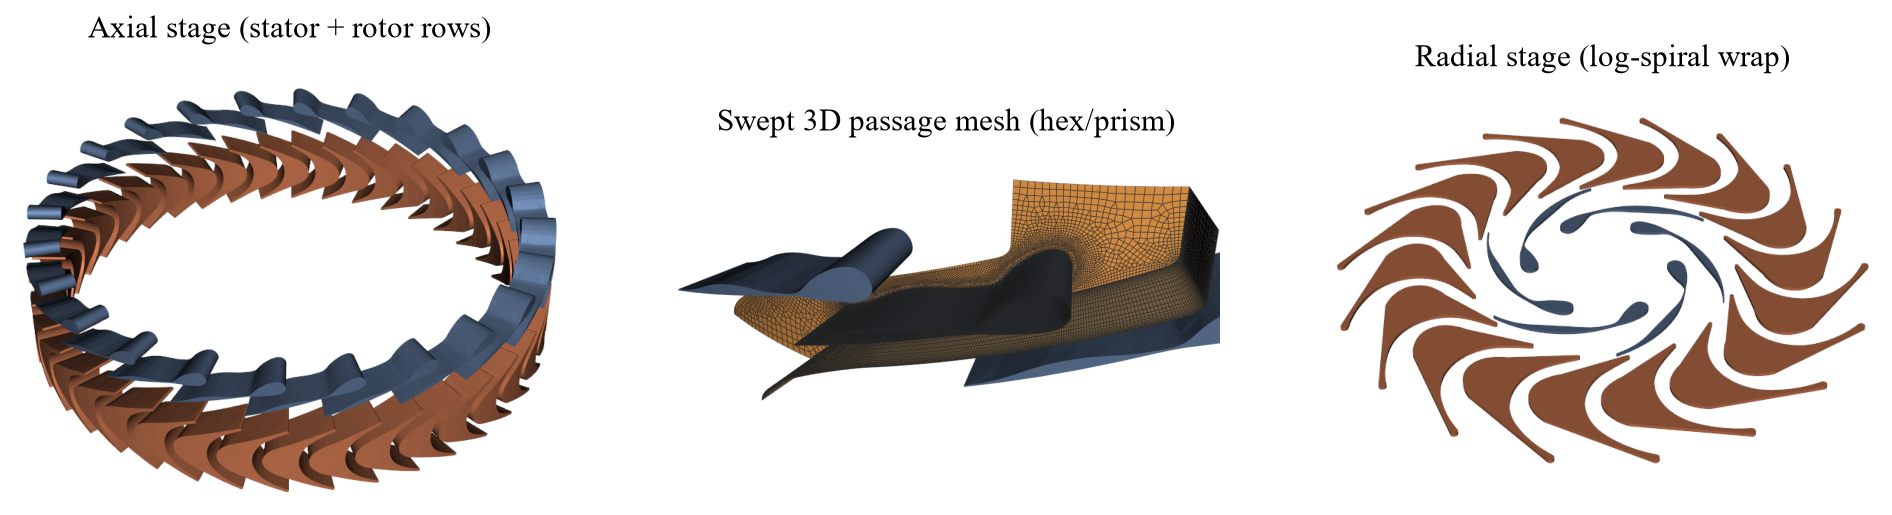
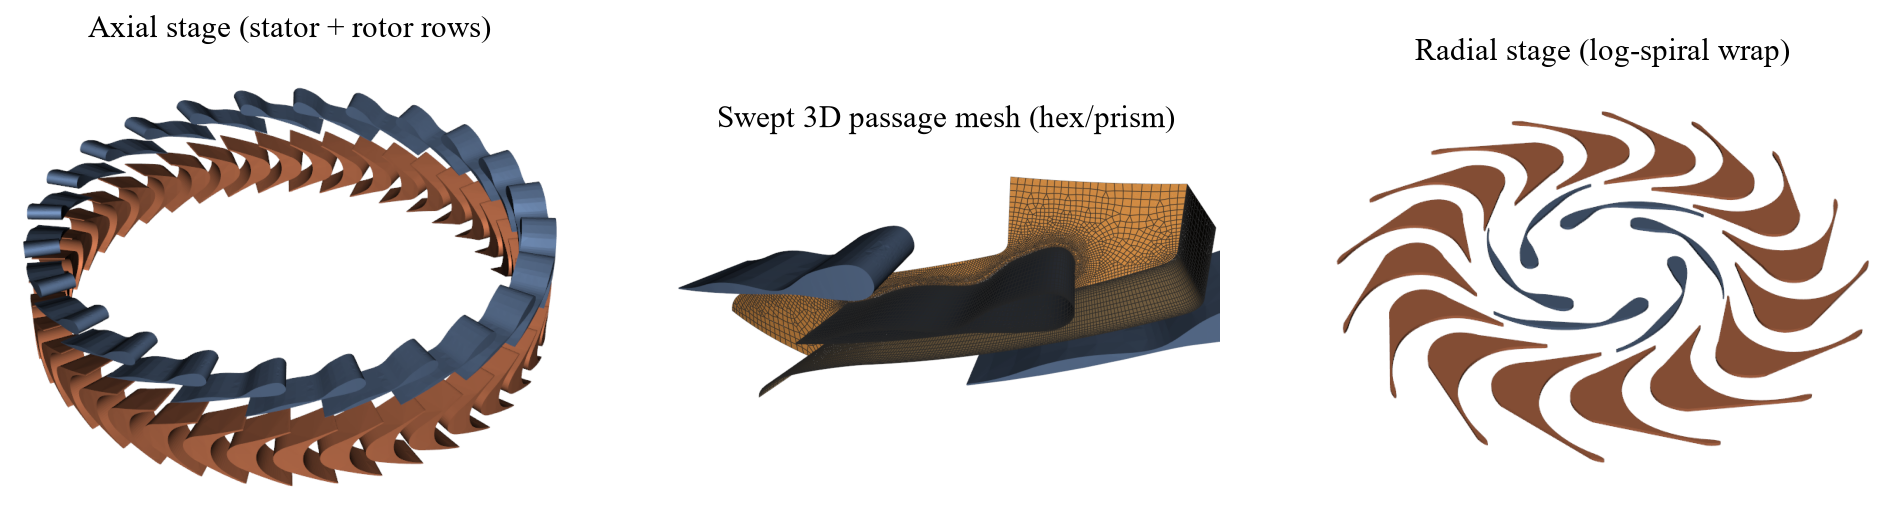
README figures: vortex rotor passage with MoC transition arcs, thicker stator neck; figure script updated to the package layout

diff --git a/docs/images/make_readme_figures.py b/docs/images/make_readme_figures.py
@@ -19,18 +19,19 @@ import vtk
 from vtk.util.numpy_support import numpy_to_vtk, numpy_to_vtkIdTypeArray
 
 import turbo_moc
-from turbo_moc.app import _mirrored_rotor_blade, _place_radial_rotor, _rotor_z_offset
-from turbo_moc.geometry import (
-    consistent_radial_wrap,
+from turbo_moc.core.vortex_blade import design_rotor_vortex_blade
+from turbo_moc.geometry.stator_blade import (
+    apply_control_point_displacements,
     export_annular_blade_stl,
     export_radial_blade_stl,
     parametrize_stator_blade,
-    size_rotor_from_pitch,
-    size_stator_mode_a,
 )
-from turbo_moc.meshing.stator_mesh_2d import default_mesh_sizes, mesh_sized_stator
-from turbo_moc.meshing.stator_mesh_3d import load_patch_surfaces, mesh_swept_passage
-from turbo_moc.rotor import design_rotor_vortex_blade
+# Sizing, stage placement and the swept stator mesh come from the preserved (legacy) workflow.
+from turbo_moc.legacy.app import _mirrored_rotor_blade, _place_radial_rotor, _rotor_z_offset
+from turbo_moc.legacy.geometry.radial import consistent_radial_wrap
+from turbo_moc.legacy.geometry.sizing import size_rotor_from_pitch, size_stator_mode_a
+from turbo_moc.legacy.meshing.stator_mesh_2d import default_mesh_sizes, mesh_sized_stator
+from turbo_moc.legacy.meshing.stator_mesh_3d import load_patch_surfaces, mesh_swept_passage
 
 OUT = Path(__file__).resolve().parent
 STATOR_COLOR, ROTOR_COLOR = (0.36, 0.45, 0.58), (0.80, 0.47, 0.32)
@@ -43,10 +44,15 @@ nozzle = turbo_moc.design_nozzle(fluid_name="Cyclopentane", P0=2.513e5, Q0=0.025
 wall = nozzle["wall_final"]
 blade = parametrize_stator_blade(wall["x"], wall["y"], metal_angle_in=0.0, metal_angle_out=70.0,
                                  r_trailing=0.5, inlet_opening_ratio=1.5)
-stator = size_stator_mode_a(blade, nozzle, mdot=2.0, n_blades=24, r_hub=100.0)
+# Thicken the neck behind the leading-edge bulb by moving three control points of the convergent
+# pressure-side spline (fractions of the chord, as in the app's control-point editor). The MoC walls
+# (suction side from the throat, pressure side from the mirrored wall) are not touched.
+blade = apply_control_point_displacements(blade, {17: [0.004, 0.006], 18: [0.012, 0.02], 19: [0.02, 0.035]})
+stator =size_stator_mode_a(blade, nozzle, mdot=2.0, n_blades=24, r_hub=100.0)
 rotor_data = design_rotor_vortex_blade(fluid_name="Novec649", P0_rel=5e5, T0_rel=400.0, M_inlet=1.5,
                                        M_outlet=1.5, M_lower=1.05, M_upper=2.0, beta_inlet=65.0,
-                                       backend="HEOS", num_points=60)
+                                       backend="HEOS", num_points=60, le_te_ratio=40.0,
+                                       le_ellipse_ratio=3.2, te_ellipse_ratio=5.0)
 rotor = size_rotor_from_pitch(rotor_data, stator["r_hub"], stator["r_shroud"], 40)
 
 
@@ -64,11 +70,20 @@ axes[0].set_title("Method of characteristics: two-phase Cyclopentane nozzle")
 axes[1].set_title("Expansion in the T-s diagram")
 save(fig, "readme_nozzle.png")
 
-fig, axes = plt.subplots(1, 2, figsize=(14, 4.2))
+fig, axes = plt.subplots(1, 2, figsize=(14, 5.2), gridspec_kw={"width_ratios": [1.6, 1]})
 turbo_moc.mpl.plot_blade(blade, ax=axes[0], n_blades=2, show_control_points=False)
-turbo_moc.mpl.plot_rotor_vortex_blade(rotor_data, ax=axes[1], show_surfaces=False)
+# Rotor passage: the designed blade, its neighbour one pitch below, and the characteristics of the
+# transition arcs that turn the uniform inflow into the free vortex and back.
+turbo_moc.mpl.plot_rotor_vortex_blade(rotor_data, ax=axes[1], show_surfaces=True, show_mach_lines=True)
+blade_x, blade_y = np.asarray(rotor_data["blade"]["x"]), np.asarray(rotor_data["blade"]["y"])
+axes[1].fill(blade_x, blade_y - rotor_data["pitch"], color="0.62", ec="0.25", lw=1.2)
+handles, _ = axes[1].get_legend_handles_labels()
+axes[1].legend(handles[:3], ["Blade (elliptic edges)", f"Pressure surface, M = {rotor_data['M_lower']:.2f}",
+                             f"Suction surface, M = {rotor_data['M_upper']:.2f}"], loc="upper right", fontsize=9)
+axes[1].set_aspect("equal")
+axes[1].set_ylim(-rotor_data["pitch"] - 0.1, blade_y.max() + 0.9)
 axes[0].set_title("Stator blade from the nozzle wall")
-axes[1].set_title("Supersonic vortex rotor blade")
+axes[1].set_title("Vortex rotor passage (MoC transition arcs)")
 save(fig, "readme_blades.png")
 
 scaled = stator["scaled_blade"]

diff --git a/README.md b/README.md
@@ -40,7 +40,7 @@ sizing, CAD and stage-assembly tools.
 - **Boundary-layer correction**: stator and rotor walls are offset by the displacement thickness of a
   turbulent flat-plate layer computed from the inviscid design.
 
-![Stator blade derived from the nozzle wall and a supersonic vortex rotor blade](docs/images/readme_blades.png)
+![Stator blade derived from the nozzle wall and a supersonic vortex rotor passage with its MoC transition arcs](docs/images/readme_blades.png)
 
 ### Sizing, CAD and stages in the preserved workflow
 
